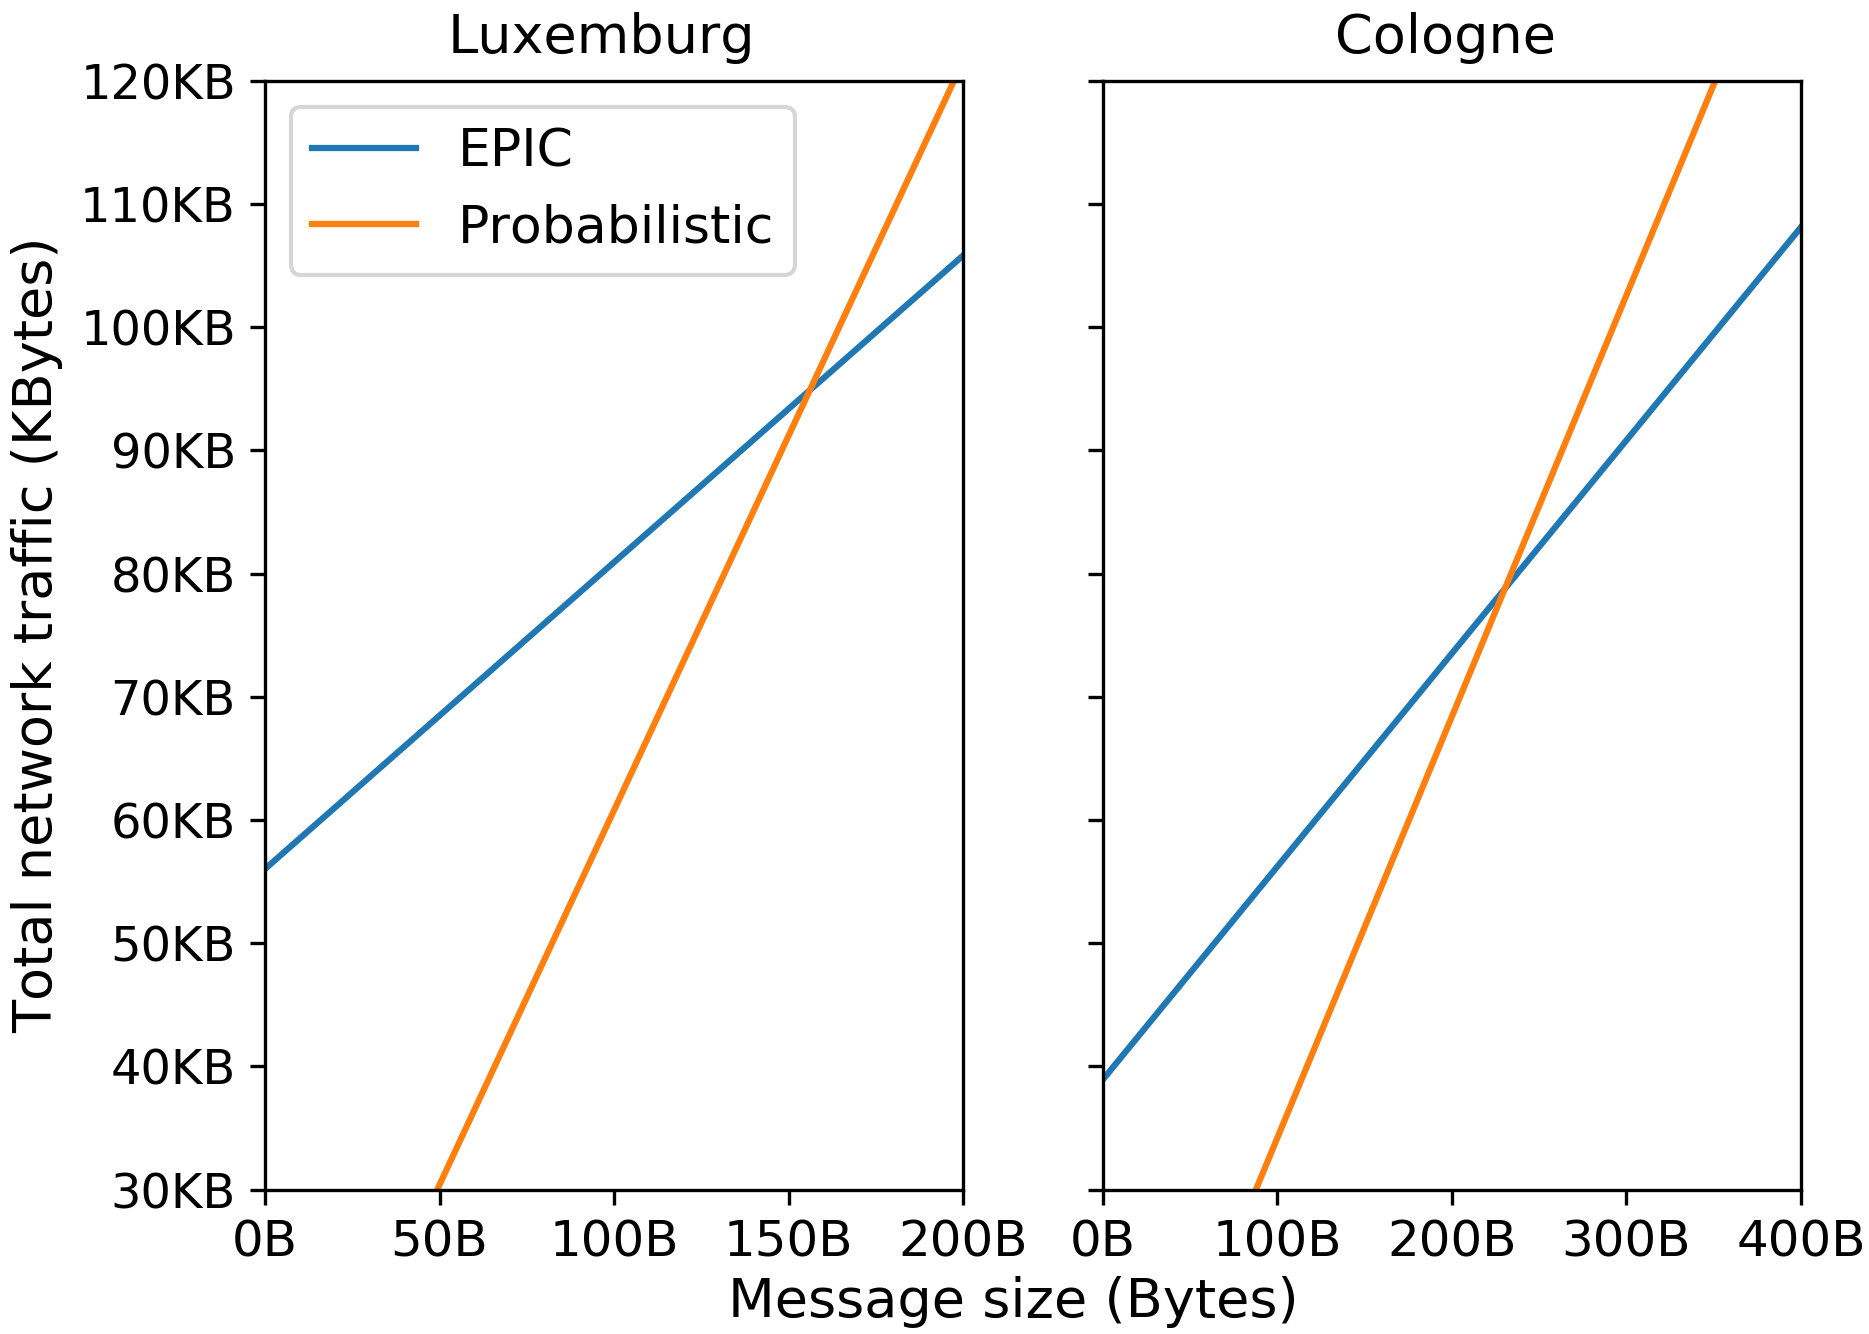
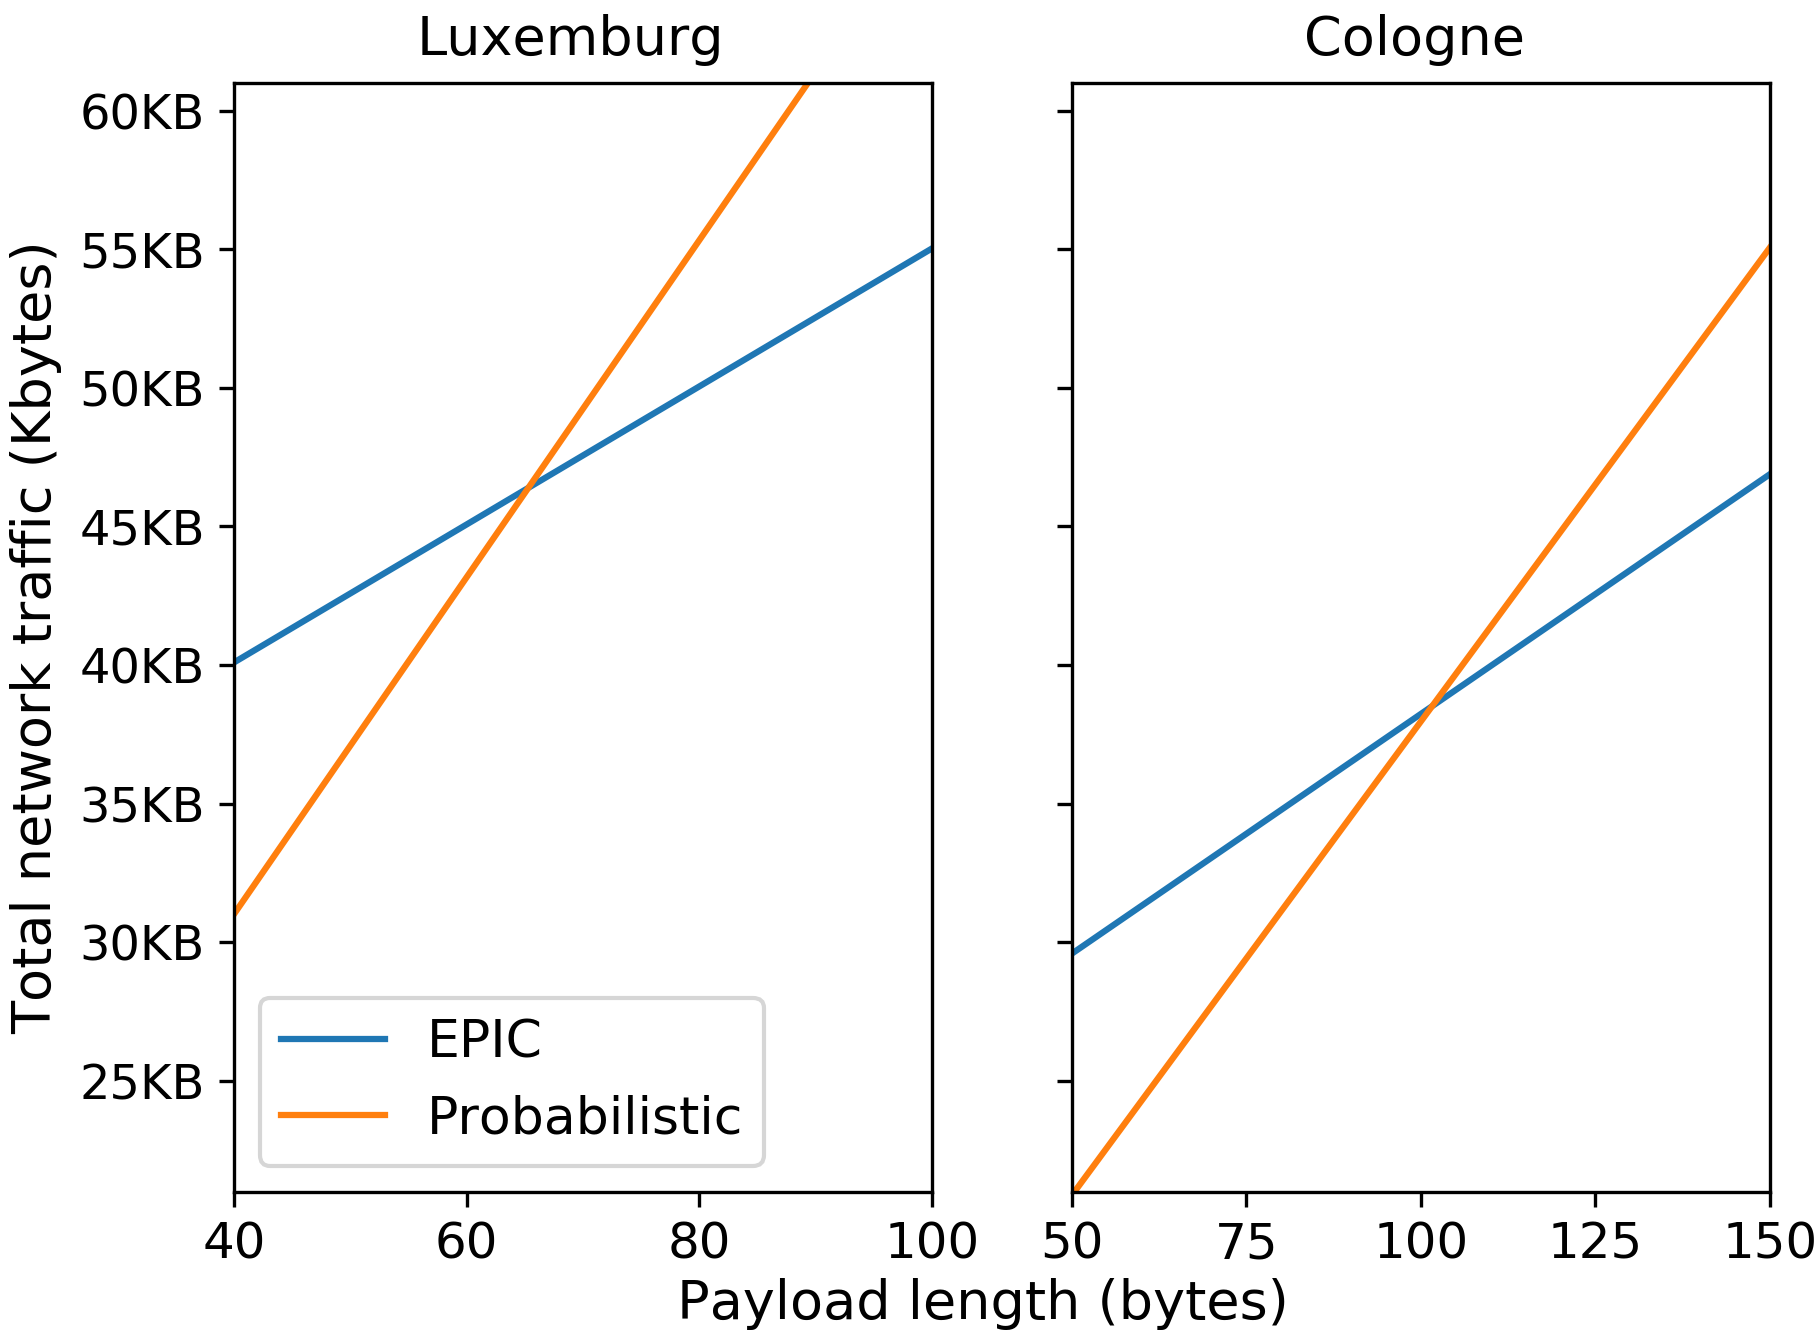
fix graphs

diff --git a/grafici/graph-TC-traffic-comparison.py b/grafici/graph-TC-traffic-comparison.py
@@ -22,8 +22,9 @@ def bytes(x, pos):
 formatter = FuncFormatter(kilobytes)
 formatter_bytes = FuncFormatter(bytes)
 
-fig, (ax1, ax2) = plt.subplots(1,2, sharey=True)
+fig, (ax1, ax2) = plt.subplots(1,2, sharey=False)
 ax1.yaxis.set_major_formatter(formatter)
+ax2.yaxis.set_major_formatter(formatter)
 ax1.xaxis.set_major_formatter(formatter_bytes)
 ax2.xaxis.set_major_formatter(formatter_bytes)
 
@@ -31,30 +32,33 @@ ax2.xaxis.set_major_formatter(formatter_bytes)
 
 #(249/790)*(7+22*6+x) > (608/790)*(7+x)
 
+overhead_epic = 22*5+5+6
+overhead_prb  = 5+6
+
 x_lux = np.arange(0, 405, 1)
-l1 = (249) * (7+22*5+x_lux)
-l2 = (608) * (7+x_lux)
+l1 = (249) * (overhead_epic+x_lux)
+l2 = (608) * (overhead_prb+x_lux)
 p1 = ax1.plot(l1, label='EPIC Luxemburg')
 p2 = ax1.plot(l2, label='Probabilistic Luxembourg')
 
 x_col = np.arange(0, 405, 1)
-l1_col = 173 * (7+22*5+x_col)
-l2_col = 342 * (7+x_col)
+l1_col = 173 * (overhead_epic+x_col)
+l2_col = 342 * (overhead_prb+x_col)
 p3 = ax2.plot(l1_col, label='EPIC Cologne')
 p4 = ax2.plot(l2_col, label='Probabilistic Cologne')
 
 ax1.legend((p1[0], p2[0]), ('EPIC', 'Probabilistic'))
 
 #ax1.set_xlabel('Message size (Bytes)')
-fig.text(0.54, 0.032, 'Message size (Bytes)', ha='center', va='center')
+fig.text(0.54, 0.032, 'Payload length (bytes)', ha='center', va='center')
 fig.text(0.325, 0.91, 'Luxemburg', ha='center', va='center')
 fig.text(0.765, 0.91, 'Cologne', ha='center', va='center')
-ax1.set_ylabel('Total network traffic (KBytes)')
+ax1.set_ylabel('Total network traffic (Kbytes)')
 
-ax1.set_ylim(30000, 120000)
-ax1.set_xlim(0, 200)
-ax2.set_ylim(30000, 120000)
-ax2.set_xlim(0, 400)
+ax1.set_ylim(21000, 61000)
+ax1.set_xlim(40, 100)
+ax2.set_ylim(21000, 61000)
+ax2.set_xlim(50, 150)
 
 plt.gcf().subplots_adjust(left=0.15, right=0.95)
 

diff --git a/grafici/graph-TC-forw-recv.py b/grafici/graph-TC-forw-recv.py
@@ -47,7 +47,7 @@ import matplotlib.pyplot as plt
 
 
 plt.rcParams.update({'font.size': 18.3})
-plt.rc('legend', fontsize=13)
+plt.rc('legend', fontsize=12.5)
 plt.rc('xtick', labelsize=17)
 plt.rc('ytick', labelsize=11.5)
 
@@ -97,8 +97,10 @@ plt.title('')
 plt.xticks(ind+width/2+gap/2, ('Luxembourg', 'Cologne', 'New York'))
 plt.yticks(np.arange(0, 1.1, 0.1))
 plt.legend((p3[0], p2[0], p4[0]), ('Relay', 'EPIC high density', 'EPIC low density'),
-      loc='upper center', bbox_to_anchor=(0.5, 1.15),
+      loc='upper center', bbox_to_anchor=(0.44, 1.15),
           fancybox=True, shadow=True, ncol=5)
+
+plt.gcf().subplots_adjust(left=0.15, right=0.95)
 
 #plt.show()
 plt.savefig('grafici/top_car/frw_recv.png', dpi=300)
